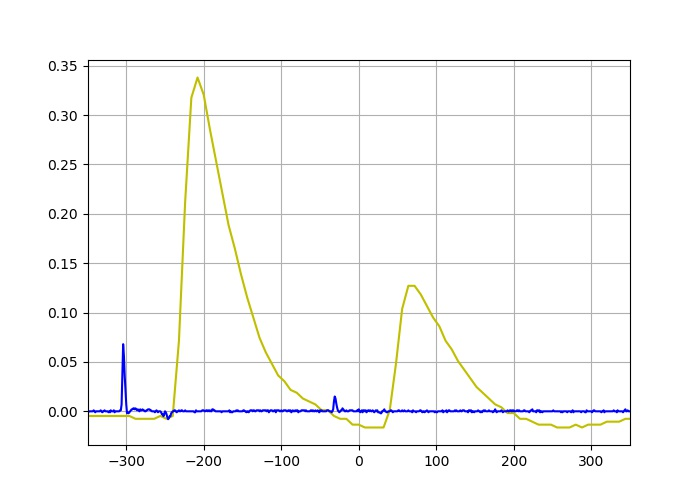
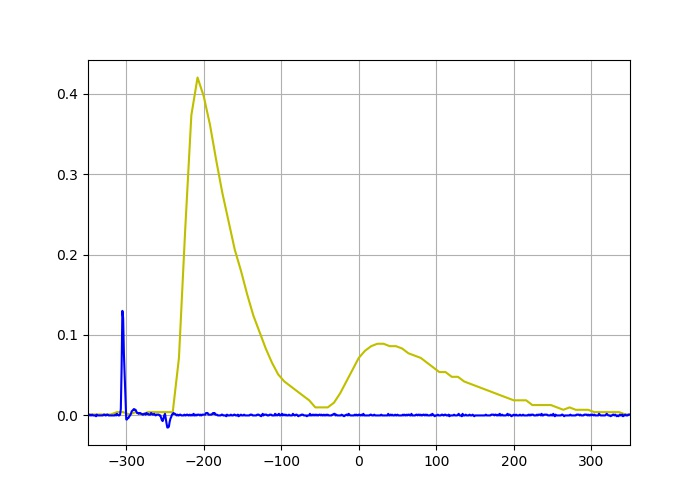
new analysis updates

diff --git a/software/correlator.py b/software/correlator.py
@@ -29,7 +29,7 @@ print('There are', datanum, 'events')
 
 origbaseval	= 82	#in mV
 origscale	= 1000.	#convert mV to V
-strampbaseval	= -3	#in mV
+strampbaseval	= -3	#in V
 strampscale	= 10.	#due to x10 gain
 
 fastdata    = -1.0*(Original[:,2:].astype(float) - origbaseval)/origscale
@@ -81,14 +81,20 @@ mononum		= np.shape(monosgnl)[0]
 slowint		= np.zeros(mononum)
 fastint		= np.zeros(mononum)
 
+slowmax		= np.zeros(mononum)
+fastmax		= np.zeros(mononum)
+
 j	= 0 #counter variable for integral arrays
 for i in monosgnl:
 	fastpeaks 	= np.where(fastdata[i]>cutoff)
-	fastint[j]	= np.sum(fastdata[i][fastpeaks])
-	slowint[j]	= 0
-	
-	slowpeaks	= np.where(slowdata[i]>0)
-	slowint[j]	= np.sum(slowdata[i][slowpeaks])
+	fastint[j]	= np.sum(fastdata[i][fastpeaks])*(Origtime[1]-Origtime[0])
+	fastmax[j]	= np.amax(fastdata[i][fastpeaks])
+
+	slowint[j]	= 0	
+	slowpeaks	= np.where(slowdata[i]>0.05)
+	slowint[j]	= np.sum(slowdata[i][slowpeaks])*(Stramptime[1]-Stramptime[0])
+	slowmax[j]	= np.amax(slowdata[i][slowpeaks])
+
 	j += 1
 
 plt.figure(figsize=(7,5))
@@ -114,6 +120,16 @@ plt.text(0.7, 0.1,'m = ' + '%.5f' % np.polyfit(fastint, slowint, 1)[0] + ' b = '
      transform = ax.transAxes)
 #plt.show()
 plt.savefig('peakint_lobf.jpg')
+plt.close()
+
+plt.figure(figsize=(7,5))
+plt.scatter(fastmax, slowmax, marker='.')
+ax = plt.gca()
+ax.set_xlabel('highest value of fast signal')
+ax.set_ylabel('highest value of slow signal')
+plt.grid()
+#plt.show()
+plt.savefig('peaks_correlation.jpg')
 plt.close()
 
 """trnsgrsrs = []
